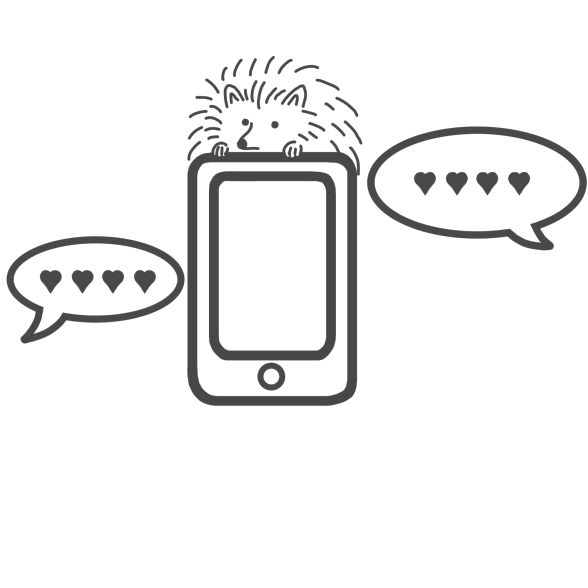
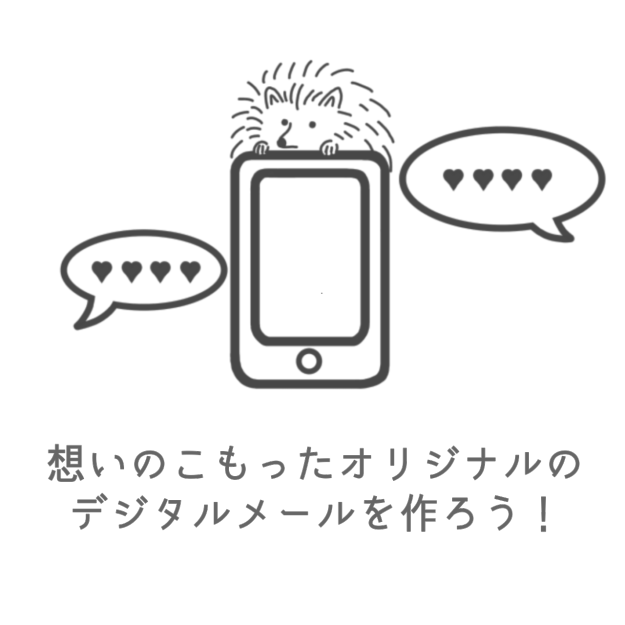
フォントの統一 TOPの画像差し替え

diff --git a/assets/css/style.css b/assets/css/style.css
@@ -42,47 +42,13 @@ body a  {color:#666;}
 ::selection {background: #fff; color: #98d9e7;}
 ::-moz-selection {background: #fff; color: #98d9e7;}
 
-.jsf    {font-family: 'Josefin Sans', "游ゴシック体", "Yu Gothic", YuGothic, sans-serif; letter-spacing: 3px; font-style: italic;}
-.jsf_n  {font-family: 'Josefin Sans', "游ゴシック体", "Yu Gothic", YuGothic, sans-serif; letter-spacing: 3px;}
-
-
 /* ------------------------------------------------
 CSS3 animation & parts layout
 --------------------------------------------------- */
 /* link */
-/* .trans_bg a         {opacity:1; filter:alpha(opacity=100); display:block; overflow:hidden; height:0; -moz-transition:all 0.2s ease-in; -webkit-transition:all 0.2s ease-in;}
-.trans_bg a:hover   {opacity:0; filter:alpha(opacity=0); -moz-transition: all 0.2s ease-in; -webkit-transition:all 0.2s ease-in;}
-.trans_bg_disabled a        {opacity:1; display:block; overflow:hidden; height:0; cursor: default;} */
 
 .obj  {position:absolute; z-index:0;}
 .t_disabled {color: #cacaca;}
-
-/* vietnamese */
-@font-face {
-  font-family: 'Josefin Sans';
-  font-style: normal;
-  font-weight: 400;
-  src: url(https://fonts.gstatic.com/s/josefinsans/v25/Qw3PZQNVED7rKGKxtqIqX5E-AVSJrOCfjY46_DjQbMlhLzTs.woff2) format('woff2');
-  unicode-range: U+0102-0103, U+0110-0111, U+0128-0129, U+0168-0169, U+01A0-01A1, U+01AF-01B0, U+1EA0-1EF9, U+20AB;
-}
-/* latin-ext */
-@font-face {
-  font-family: 'Josefin Sans';
-  font-style: normal;
-  font-weight: 400;
-  src: url(https://fonts.gstatic.com/s/josefinsans/v25/Qw3PZQNVED7rKGKxtqIqX5E-AVSJrOCfjY46_DjQbMhhLzTs.woff2) format('woff2');
-  unicode-range: U+0100-024F, U+0259, U+1E00-1EFF, U+2020, U+20A0-20AB, U+20AD-20CF, U+2113, U+2C60-2C7F, U+A720-A7FF;
-}
-/* latin */
-@font-face {
-  font-family: 'Josefin Sans';
-  font-style: normal;
-  font-weight: 400;
-  src: url(https://fonts.gstatic.com/s/josefinsans/v25/Qw3PZQNVED7rKGKxtqIqX5E-AVSJrOCfjY46_DjQbMZhLw.woff2) format('woff2');
-  unicode-range: U+0000-00FF, U+0131, U+0152-0153, U+02BB-02BC, U+02C6, U+02DA, U+02DC, U+2000-206F, U+2074, U+20AC, U+2122, U+2191, U+2193, U+2212, U+2215, U+FEFF, U+FFFD;
-}
-
-
 
 /* ヘッダー独自スタイル */
 .navigator {

diff --git a/assets/css/gift.css b/assets/css/gift.css
@@ -13,11 +13,13 @@ a{text-decoration: none;}*/
 
 * {box-sizing: border-box;} 
 
-body {font-family: 'Avenir','Helvetica Neue','Helvetica','Arial','Hiragino Sans','ヒラギノ角ゴシック''Yu Gothic','メイリオ''ＭＳ Ｐゴシック','MS PGothic';
+/* body {font-family: 'Avenir','Helvetica Neue','Helvetica','Arial','Hiragino Sans','ヒラギノ角ゴシック''Yu Gothic','メイリオ''ＭＳ Ｐゴシック','MS PGothic';
 line-height: 1.8;}
 
 header{font-family: 'Kaisei Decol', serif;
-    font-family: 'Shippori Mincho', serif;}
+    font-family: 'Shippori Mincho', serif;} */
+    
+body {font-family: "游ゴシック体", "Yu Gothic", YuGothic, sans-serif; font-weight: normal;}
 
 /*background*/
 .water{position: fixed;

diff --git a/assets/css/gift1.css b/assets/css/gift1.css
@@ -13,11 +13,13 @@ a{text-decoration: none;}*/
 
 *{box-sizing: border-box;} 
 
-body {font-family: 'Avenir','Helvetica Neue','Helvetica','Arial','Hiragino Sans','ヒラギノ角ゴシック''Yu Gothic','メイリオ''ＭＳ Ｐゴシック','MS PGothic';
+/* body {font-family: 'Avenir','Helvetica Neue','Helvetica','Arial','Hiragino Sans','ヒラギノ角ゴシック''Yu Gothic','メイリオ''ＭＳ Ｐゴシック','MS PGothic';
 line-height: 1.8;}
 
 header{font-family: 'Kaisei Decol', serif;
-font-family: 'Shippori Mincho', serif;}
+font-family: 'Shippori Mincho', serif;} */
+
+body {font-family: "游ゴシック体", "Yu Gothic", YuGothic, sans-serif; font-weight: normal;}
 
 /*background*/
 .water{position: fixed;

diff --git a/assets/css/starbucks.css b/assets/css/starbucks.css
@@ -13,11 +13,13 @@ a{text-decoration: none;}*/
 
 *{box-sizing: border-box;} 
 
-body {font-family: 'Avenir','Helvetica Neue','Helvetica','Arial','Hiragino Sans','ヒラギノ角ゴシック''Yu Gothic','メイリオ''ＭＳ Ｐゴシック','MS PGothic';
+/* body {font-family: 'Avenir','Helvetica Neue','Helvetica','Arial','Hiragino Sans','ヒラギノ角ゴシック''Yu Gothic','メイリオ''ＭＳ Ｐゴシック','MS PGothic';
 line-height: 1.8;}
 
 header{font-family: 'Kaisei Decol', serif;
-font-family: 'Shippori Mincho', serif;}
+font-family: 'Shippori Mincho', serif;} */
+
+body {font-family: "游ゴシック体", "Yu Gothic", YuGothic, sans-serif; font-weight: normal;}
 
 /*background*/
 .water{position: fixed;

diff --git a/assets/css/header.css b/assets/css/header.css
@@ -20,13 +20,13 @@ ul {
     list-style: none;
 }
 
-.wf-kokoro {
+/* .wf-kokoro {
     font-family: "Kokoro";
-}
+} */
 
-.wf-sawarabimincho {
+/* .wf-sawarabimincho {
     font-family: "Sawarabi Mincho";
-}
+} */
 
 a {
     text-decoration: none;
@@ -36,10 +36,12 @@ a {
     box-sizing: border-box;
 }
 
-body {
+/* body {
     font-family: 'Kaisei Decol', serif;
     font-family: 'Shippori Mincho', serif;
-}
+} */
+
+body {font-family: "游ゴシック体", "Yu Gothic", YuGothic, sans-serif; font-weight: normal;}
 
 /*ヘッダー*/
 .navigator {

diff --git a/assets/css/shohin.css b/assets/css/shohin.css
@@ -29,7 +29,7 @@ a {
 	box-sizing: border-box;
 }
 
-body {
+/* body {
 	font-family: 'Avenir', 'Helvetica Neue', 'Helvetica', 'Arial', 'Hiragino Sans', 'ヒラギノ角ゴシック' 'Yu Gothic', 'メイリオ' 'ＭＳ Ｐゴシック', 'MS PGothic';
 	line-height: 1.8;
 }
@@ -37,7 +37,9 @@ body {
 header {
 	font-family: 'Kaisei Decol', serif;
 	font-family: 'Shippori Mincho', serif;
-}
+} */
+
+body {font-family: "游ゴシック体", "Yu Gothic", YuGothic, sans-serif; font-weight: normal;}
 
 /*background*/
 .water {

diff --git a/assets/php/starbucks.php b/assets/php/starbucks.php
@@ -64,6 +64,19 @@ $gift_data = json_decode($json_file, true);
           </div>
         </a>
       </form>
+      <form action="./shohin.php" method="post" name="shouhin_2">
+        <a href="#" onclick="document.shouhin_2.submit();">
+          <input type="hidden" name="product" value="starlatte">
+          <div class="item_name">
+            <img src="../img/starbucks/stame.jpg">
+            <div class="item_title">
+              <h3><?php echo $gift_data[$store]["store_name"] ?></h3>
+              <p><?php echo $gift_data[$store]["starlatte"]["fullName"]?></p>
+              <div class="item_price">￥<?php echo $gift_data[$store]["starlatte"]["tall"]?></div>
+            </div>
+          </div>
+        </a>
+      </form>
     </section>
 
     <section class="Starbucks_item">

diff --git a/index.php b/index.php
@@ -25,10 +25,7 @@ if (isset($_POST['add'])) {
 	<title>でじぶみ</title>
 	<link rel="stylesheet" type="text/css" href="assets/css/slick-theme.css">
 	<link rel="stylesheet" type="text/css" href="assets/css/slick.css">
-	<link rel="stylesheet" href="assets/css/reset.css">
-	<link rel="stylesheet" href="assets/css/style.css">
 	<link rel="stylesheet" href="assets/css/animation.css">
-	<link rel="stylesheet" href="./assets/css/header.css">
 	<link rel="stylesheet" type="text/css" href="https://cdnjs.cloudflare.com/ajax/libs/Modaal/0.4.4/css/modaal.min.css">
 	<link rel="stylesheet" type="text/css" href="https://coco-factory.jp/ugokuweb/wp-content/themes/ugokuweb/data/9-6-2/css/9-6-2.css">
 	<link rel="stylesheet" href="./assets/css/header.css">

diff --git a/assets/php/gift.php b/assets/php/gift.php
@@ -13,7 +13,7 @@ if (!isset($_SESSION["user_id"])) {
   <link rel="stylesheet" href="../css/header.css">
   <link rel="stylesheet" href="../css/gift.css">
   <link rel="stylesheet" href="https://cdnjs.cloudflare.com/ajax/libs/slick-carousel/1.8.1/slick.css">
-  <link rel="stylesheet" href="https://use.fontawesome.com/releases/v5.15.4/css/all.css">
+  <!-- <link rel="stylesheet" href="https://use.fontawesome.com/releases/v5.15.4/css/all.css"> -->
 </head>
 <body>  
 
